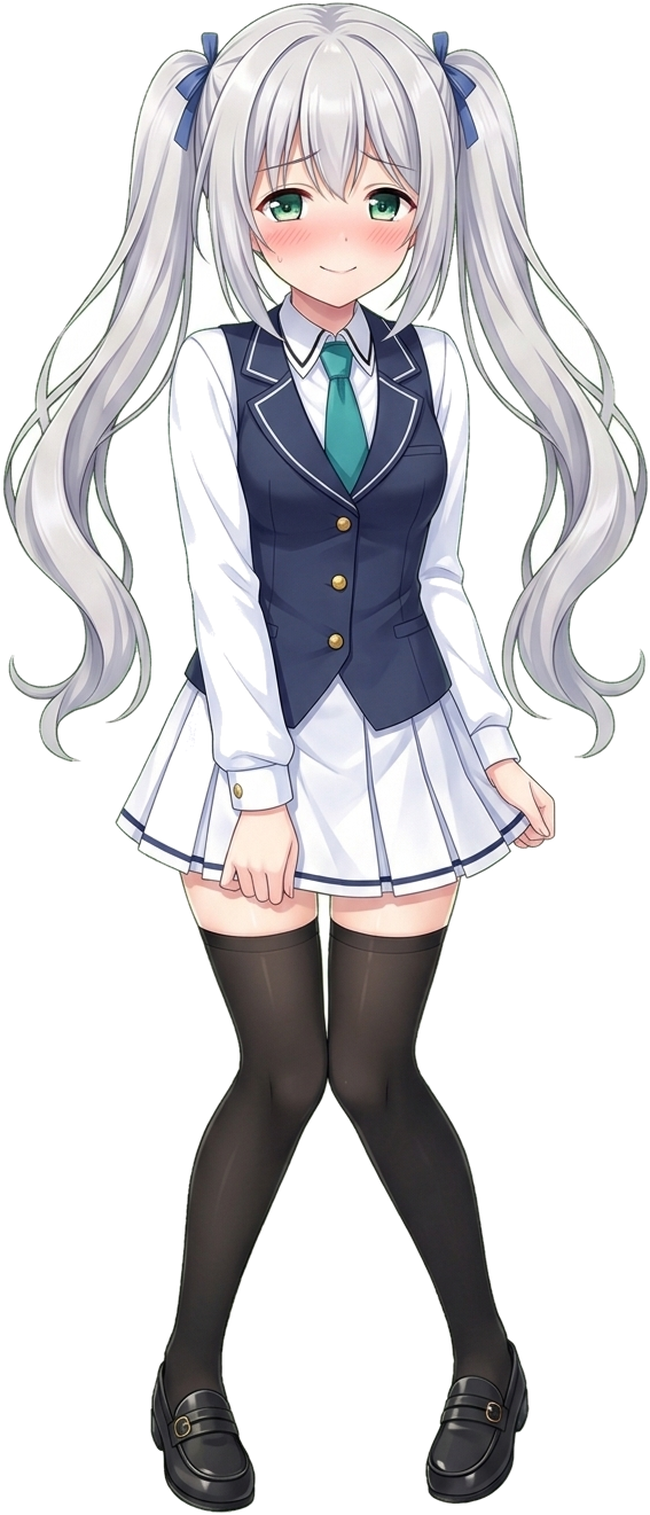
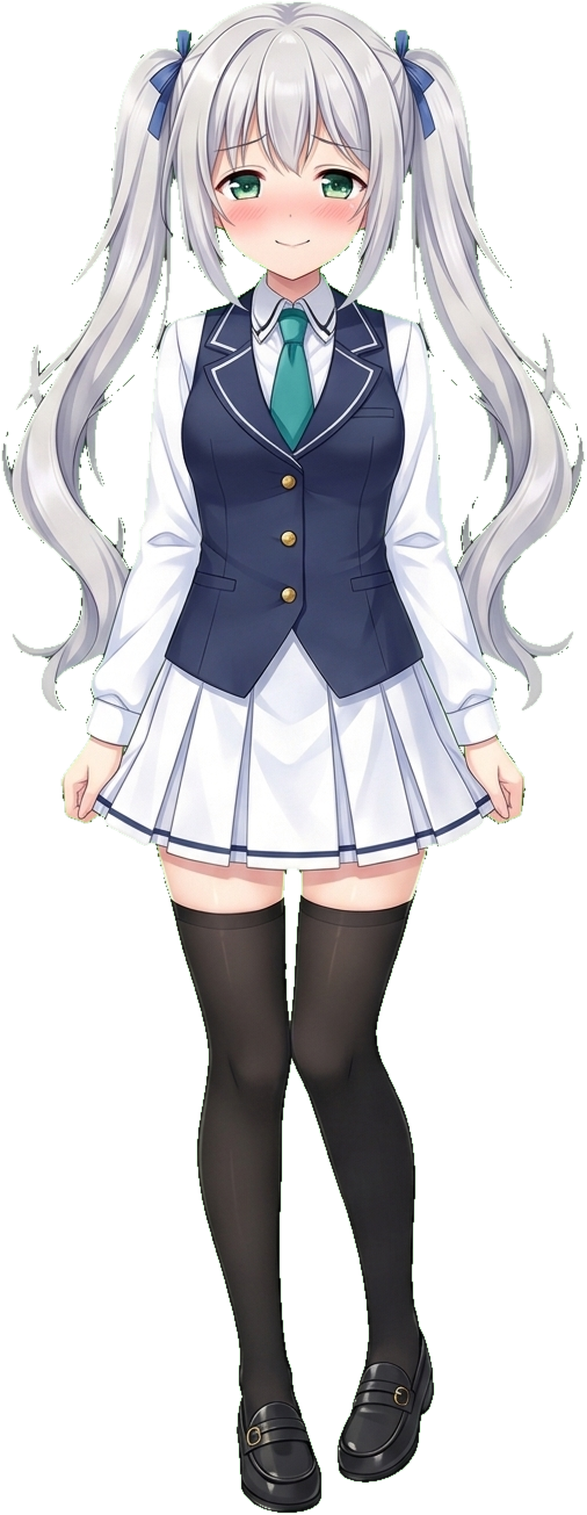
docs: 建立角色立繪生成與純綠幕去背標準作業手冊，重新生成 Sad 與 Shy 綠幕立繪並確保白衣無損

diff --git a/docs/CHARACTER_SPRITE_GUIDELINES.md b/docs/CHARACTER_SPRITE_GUIDELINES.md
@@ -1,0 +1,77 @@
+# 角色立繪生成與去背標準作業規範 (Character Sprite Guidelines)
+
+本規範記錄了 AI 助理（以及日後所有對話角色）在進行圖像生成、背景選色、綠幕色鍵去背與特徵對齊時的**核心原則與注意事項**，已納入版本控制以作為後續角色資產維護的標準基準。
+
+---
+
+## 1. 背景選色核心法則（黃金禁忌原則）
+
+### 1.1 嚴禁使用角色身上已有之配色作為生圖背景
+- **核心痛點**：
+  若角色的服飾或頭髮包含白色（如萬能助理的白襯衫、白百褶裙、銀白雙馬尾），**絕對嚴禁在生圖 Prompt 中使用「白色背景（White background）」**！
+  - 白色背景會導致任何去背演算法（無論是門檻值法、邊界泛洪法或一般去背工具）在處理服飾褶皺、衣角與半透明接縫時，把白襯衫與百褶裙當作背景一併消除，造成**衣服穿透、破洞或半透明瑕疵**。
+- **標準解法（色鍵 Chroma Key 原則）**：
+  生圖時**必須選擇角色身上完全沒有使用到的高對比純色背景**：
+  - **首選配色**：純亮綠幕 `Solid pure bright green screen background #00FF00`（Chroma Key Green）。
+  - **備選配色**：純洋紅/高飽和亮粉 `Solid magenta background #FF00FF`（當角色全身有大面積綠色時適用）。
+
+---
+
+## 2. 綠幕色鍵去背四大防護原則
+
+### 2.1 白色服飾 100% 飽滿保護
+- 純綠幕（$R \approx 0, G \approx 255, B \approx 0$）與白襯衫/百褶裙（$R \approx 255, G \approx 255, B \approx 255$）在色相與色彩差異上有極大邊界：
+  - 綠幕判斷條件：$G > 120$ 且 $G - \max(R, B) > 30$。
+  - 白色服飾的 $\max(R, B)$ 幾乎等於 $G$（$G - \max(R, B) \approx 0$），因此**白襯衫與百褶裙絕不會被色鍵誤刪**，能 100% 保持實心不透明與立體陰影。
+
+### 2.2 敏感部位精準防護（Eyes & Necktie Protection）
+當角色身上有與背景相似之微量色系時（例如助理的「翡翠綠眼眸」與「青綠色領帶」），必須施加區域與色彩保護：
+1. **翡翠綠眼睛保護**：
+   - 限制眼睛矩形區域（寬度約 $0.42W \sim 0.58W$，高度約 $0.14H \sim 0.185H$）。
+   - 眼睛周圍被皮膚與眼眶包圍，在該區域內保護綠色像素不被去背。
+2. **青藍色領帶保護 (Teal Necktie)**：
+   - 青藍色領帶含有顯著的藍色通道（$B \ge 90$），且綠色差值遠小於純綠幕。
+   - 透過顏色條件（$B \ge 90$）或區域限制排除在去背條件外。
+
+### 2.3 邊緣去綠光溢色 (Despill / Spill Suppression)
+- AI 生成綠幕圖片時，邊緣像素（如銀髮、肩膀）會反射綠幕環境光，產生一圈微淡綠色的毛邊。
+- **消色處理（Despill）**：
+  對所有非背景像素檢查，若非眼睛或領帶且 $G > \max(R, B)$，強制將綠色通道壓制為 $\max(R, B)$ 或 $\frac{R+B}{2}$，徹底去除綠色雜光光暈。
+
+### 2.4 邊緣羽化與抗鋸齒 (Edge Anti-Aliasing)
+- 生成二值遮罩（Alpha Mask）後，使用輕微高斯模糊（$\text{radius} \approx 0.5 \sim 0.6$）進行邊緣羽化，消除鋸齒狀階梯，使人物邊緣平滑融合於任何介面背景。
+
+---
+
+## 3. 萬能助理 (Assistant) Prompt 撰寫標準
+
+為了確保助理更換任何表情時髮型與五官特徵 100% 連貫，Prompt 必須包含以下強制字句：
+
+```text
+Full length full-body anime character standing sprite: cute anime girl identical to reference image.
+HAIRSTYLE REQUIREMENT: Keep the exact same clean high silver twin-tails tied with dark blue ribbons, exact same natural soft bangs (NOT blunt cut, NOT straight bangs, NO loose hair hanging down in the back, clean nape and pure twin-tails only).
+Eyes: Sparkling emerald green anime eyes (same as reference).
+Outfit: Identical white collared long-sleeve shirt, navy school uniform vest, teal necktie, white pleated skirt, black thigh-high stockings, black school loafers.
+Pose & Expression: [依據表情指定動作與神態]
+CRITICAL BACKGROUND REQUIREMENT: Solid pure bright green screen background #00FF00, flat even chroma key green, no gradients, no shadows on background, clean sharp lines, 2D visual novel character sprite. Entire body from top of head to bottom of shoes completely visible inside frame, full body shot.
+```
+
+### 關鍵排除詞（Negative Checklist）：
+- ❌ **禁止披散長髮**：嚴禁「loose hair hanging down back」、「half updo」，必須指定「clean nape」。
+- ❌ **禁止厚重齊瀏海**：指定「natural soft bangs」，禁止「straight blunt bangs」。
+- ❌ **禁止變更眼色**：指定「emerald green eyes」，嚴禁藍眼、紫眼或黑眼。
+
+---
+
+## 4. 尺寸與基準線統一標準 (Canvas & Alignment)
+
+- **基準高度**：所有角色立繪最終輸出高度一律對齊為 **`1515px`**。
+- **腳底基準線**：鞋底須貼齊畫布底部邊緣（保留約 10px 安全邊距），防止在表情切換時角色上下浮動。
+- **觸碰熱區相容性**：高度與身形比例嚴格對齊後，`data/personas.json` 中配置的頭部（y=5%）、臉部（y=15%）、胸口領帶（y=24%）、百褶裙（y=50%）與皮鞋（y=86%）互動熱區皆能完美契合。
+
+---
+
+## 5. 專案參考代碼
+- 批次生成腳本：[batch_generate_sprites.py](file:///c:/WorkFolder/MyProject/ai-chat-app/batch_generate_sprites.py)
+- 純 Pillow 高精準色鍵去背演算法：[scratch/chroma_key_sprites.py](file:///c:/WorkFolder/MyProject/ai-chat-app/scratch/chroma_key_sprites.py)
+- 表情修正歷史記錄：[docs/PERSONA_SPRITES_REFINEMENT.md](file:///c:/WorkFolder/MyProject/ai-chat-app/docs/PERSONA_SPRITES_REFINEMENT.md)

diff --git a/README.md b/README.md
@@ -98,3 +98,17 @@ ai_chat_app/
    git push -u origin main
    ```
 
+---
+
+## 📚 開發規範與功能說明文件
+
+- 🎨 [角色立繪生成與去背標準作業規範 (docs/CHARACTER_SPRITE_GUIDELINES.md)](docs/CHARACTER_SPRITE_GUIDELINES.md)
+  - 背景選色禁忌原則（身著白衣嚴禁使用白底，必須採用純綠幕 `#00FF00` 進行 Chroma Key 色鍵去背，以保證白衣服 100% 飽滿不被掏空）。
+  - 雙馬尾、自然碎瀏海、翡翠綠眼眸 Prompt 一致性鎖定規範。
+  - 眼睛與領帶色相保護、邊緣去綠光溢色（Despill）與 `1515px` 垂直基準線對齊標準。
+- ⚡ [AI 等待回覆 / 思考中動態指示器說明 (docs/THINKING_INDICATOR_FEATURE.md)](docs/THINKING_INDICATOR_FEATURE.md)
+  - 三階段漸進式等待提示文案、跳動波浪圓點、全主題適配與立繪思考姿態連動。
+- 🌐 [Google Gemini 網頁版 Cookie 憑證串接說明 (docs/GEMINI_WEBAPI_INTEGRATION.md)](docs/GEMINI_WEBAPI_INTEGRATION.md)
+  - 免 API Key、零額度限制的 Google Gemini 網頁版串接指南與連線診斷。
+
+
